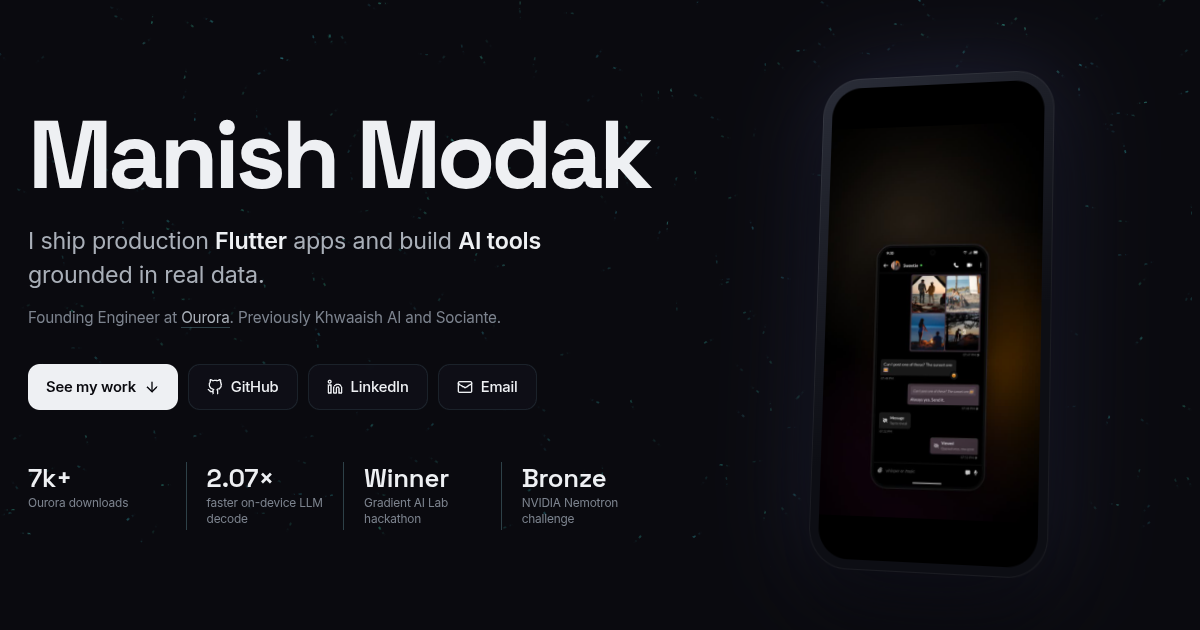
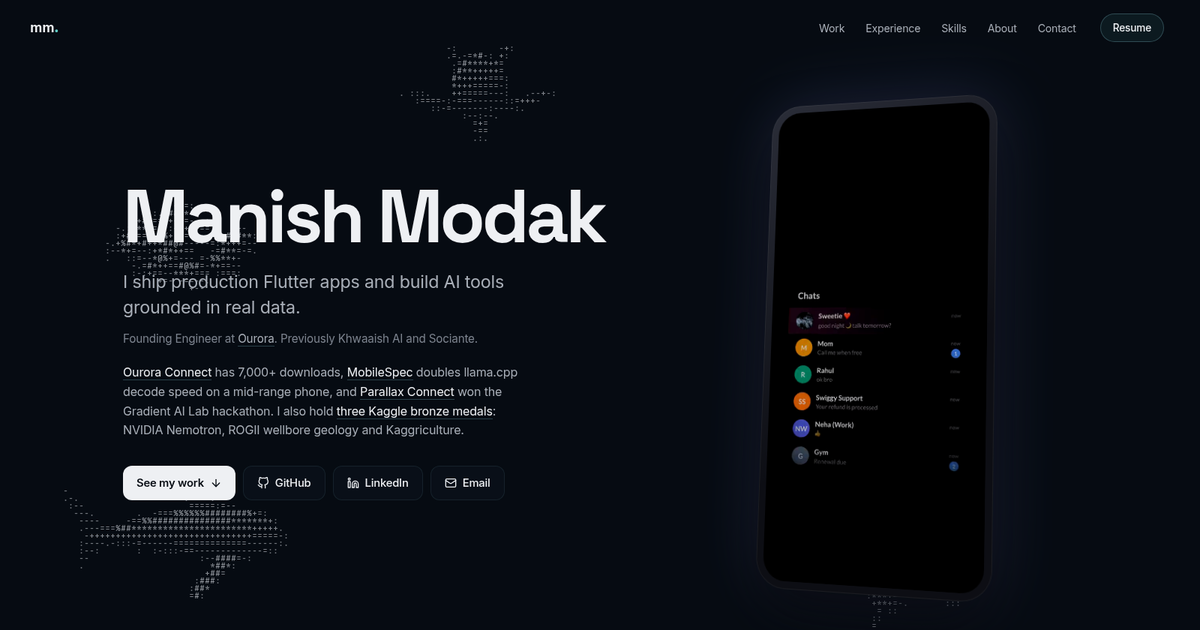
chore: social preview shows the ASCII sea; Khwaaish title matches letter
The link preview still showed the old dot-wave hero, which is gone. The
Khwaaish role drops "(Contract)" to match the relieving letter.

diff --git a/js/project-details.js b/js/project-details.js
@@ -37,7 +37,7 @@
       },
       {
         id: 'khwaaish',
-        role: 'Mobile Application Developer (Contract)',
+        role: 'Mobile Application Developer',
         organization: 'Khwaaish AI / Eastri',
         organizationUrl: 'https://www.khwaaish.com/',
         duration: 'Oct 2025 \u2013 Sep 2026',
